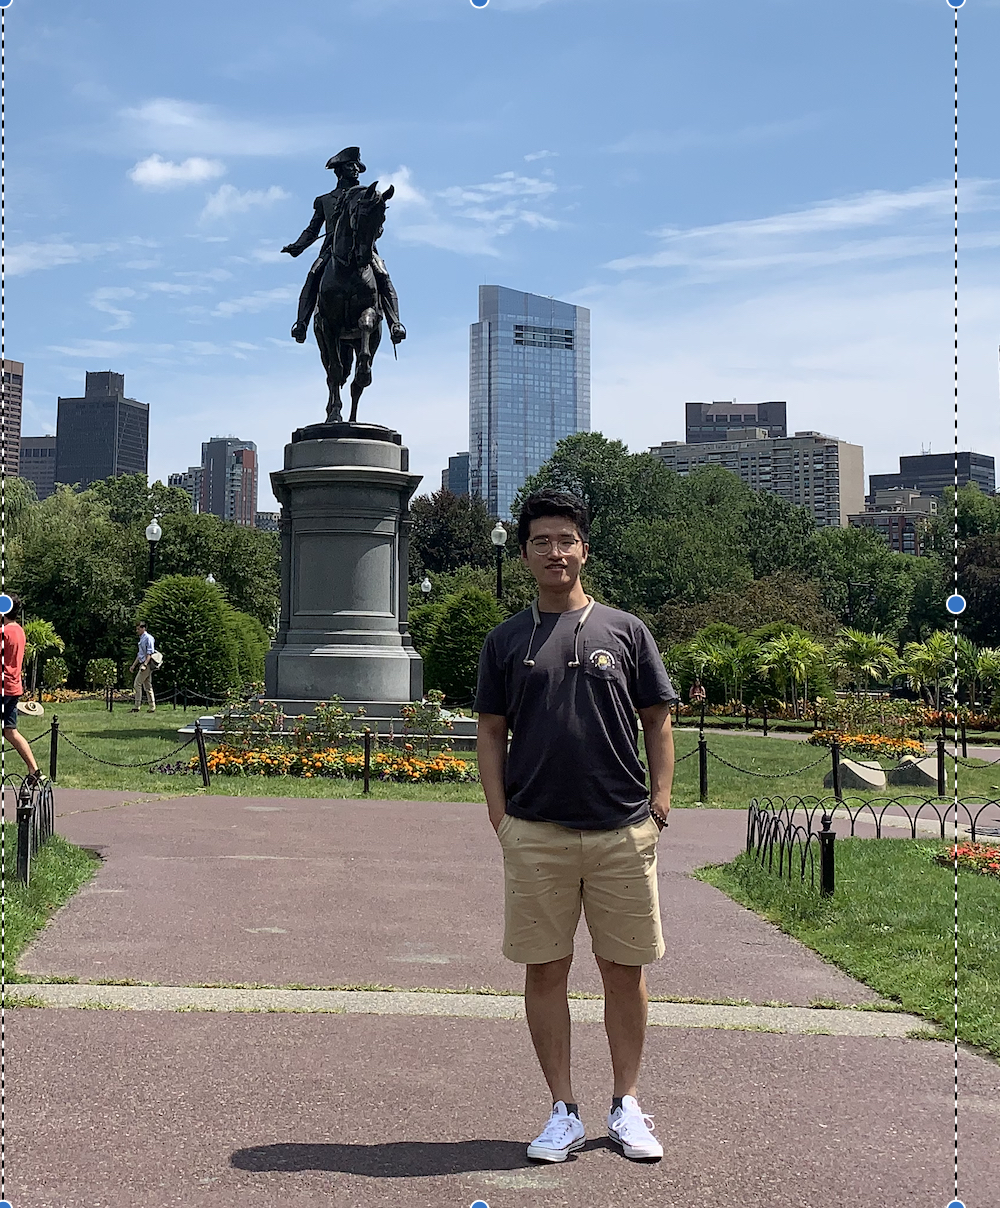
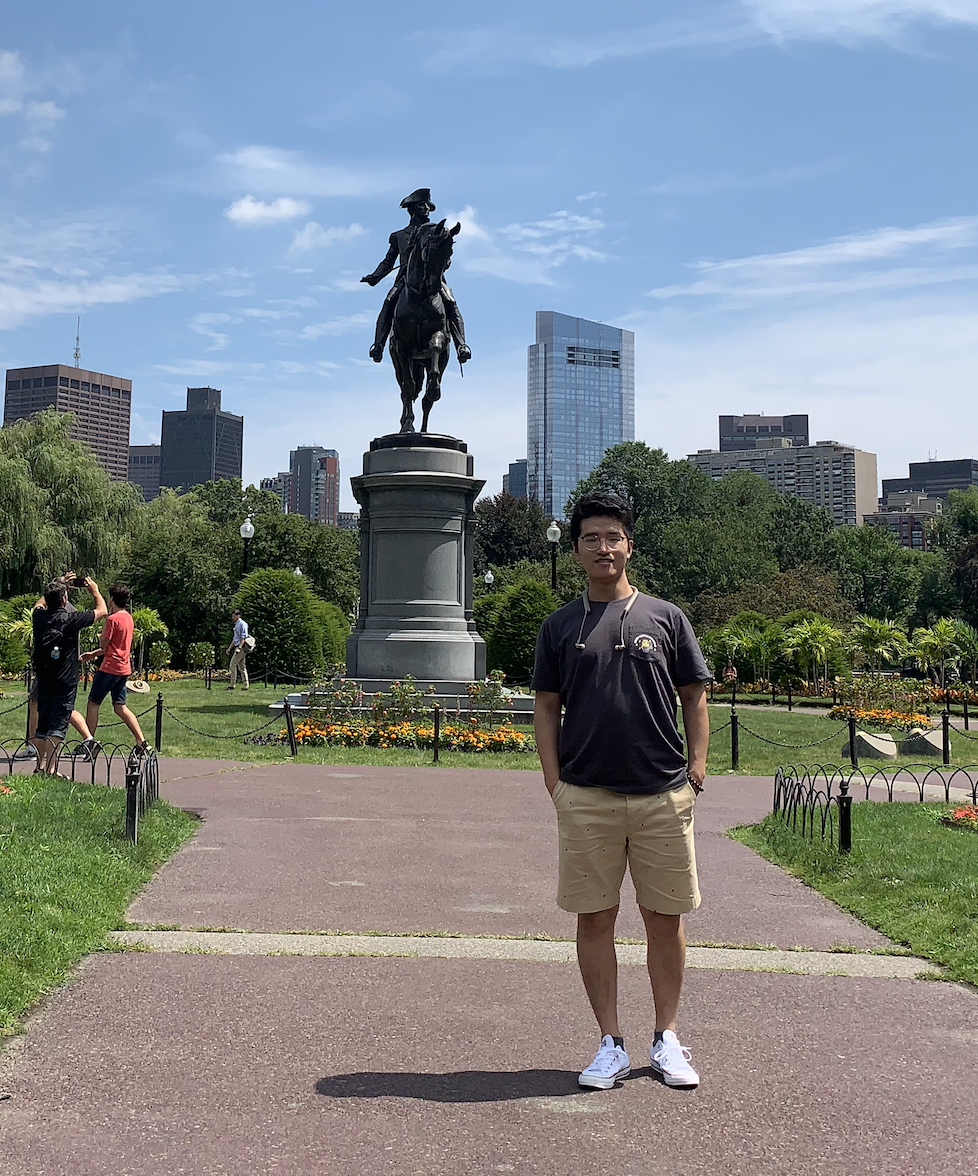
change profile

diff --git a/index.html b/index.html
@@ -43,7 +43,7 @@
             </td>
 
             <td style="padding:2.5%;width:40%;max-width:40%">
-              <img style="width:75%;max-width:75%" alt="profile photo" src="assets/images/profile.jpg" class="hoverZoomLink">
+              <img style="width:90%;max-width:90%" alt="profile photo" src="assets/images/profile.jpg" class="hoverZoomLink">
             </td>
 
           </tr>
